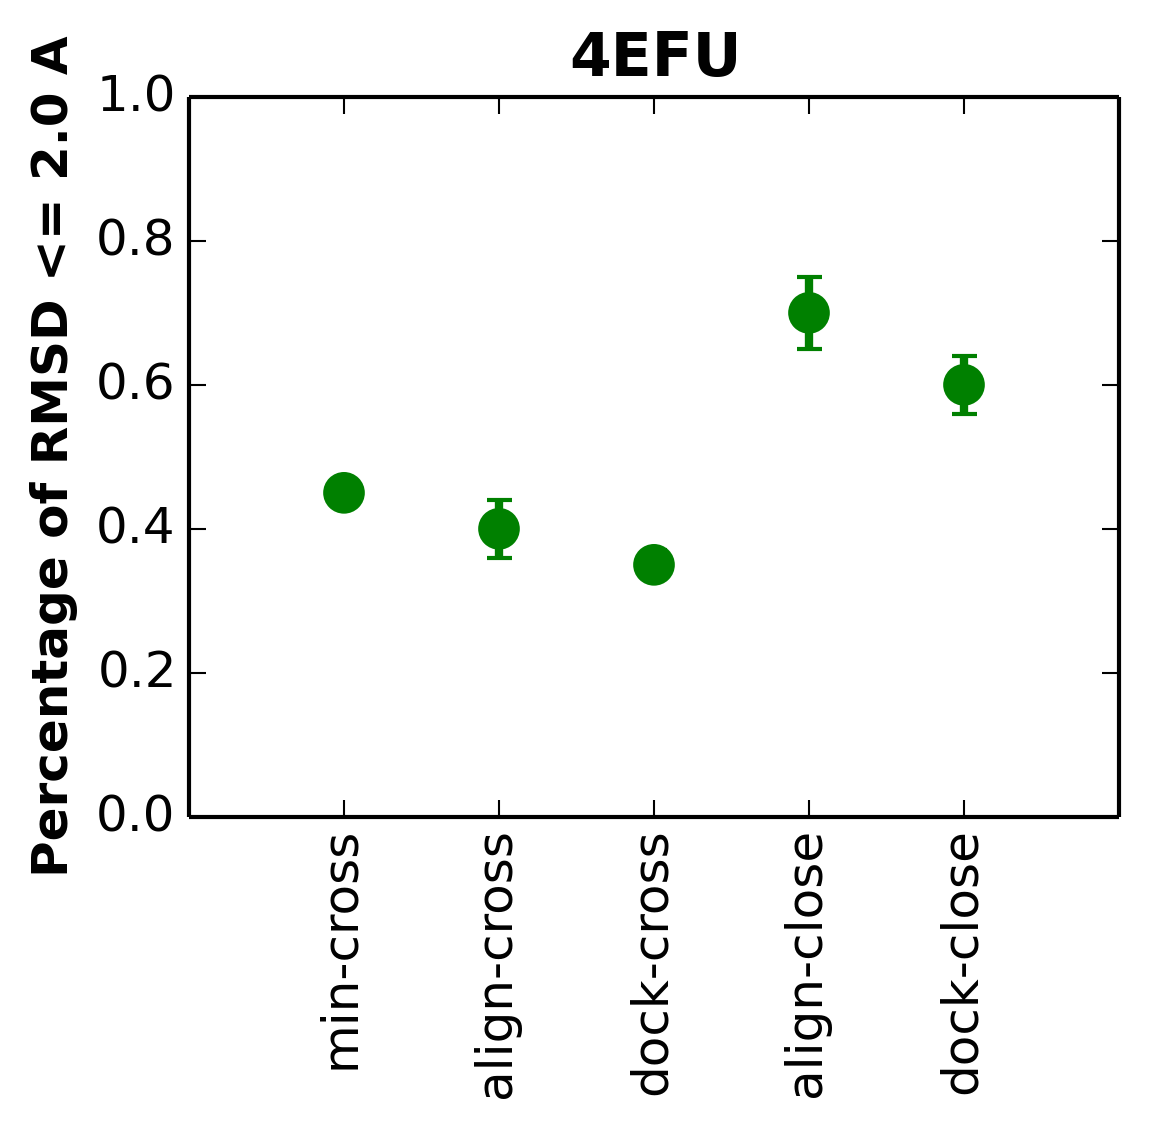
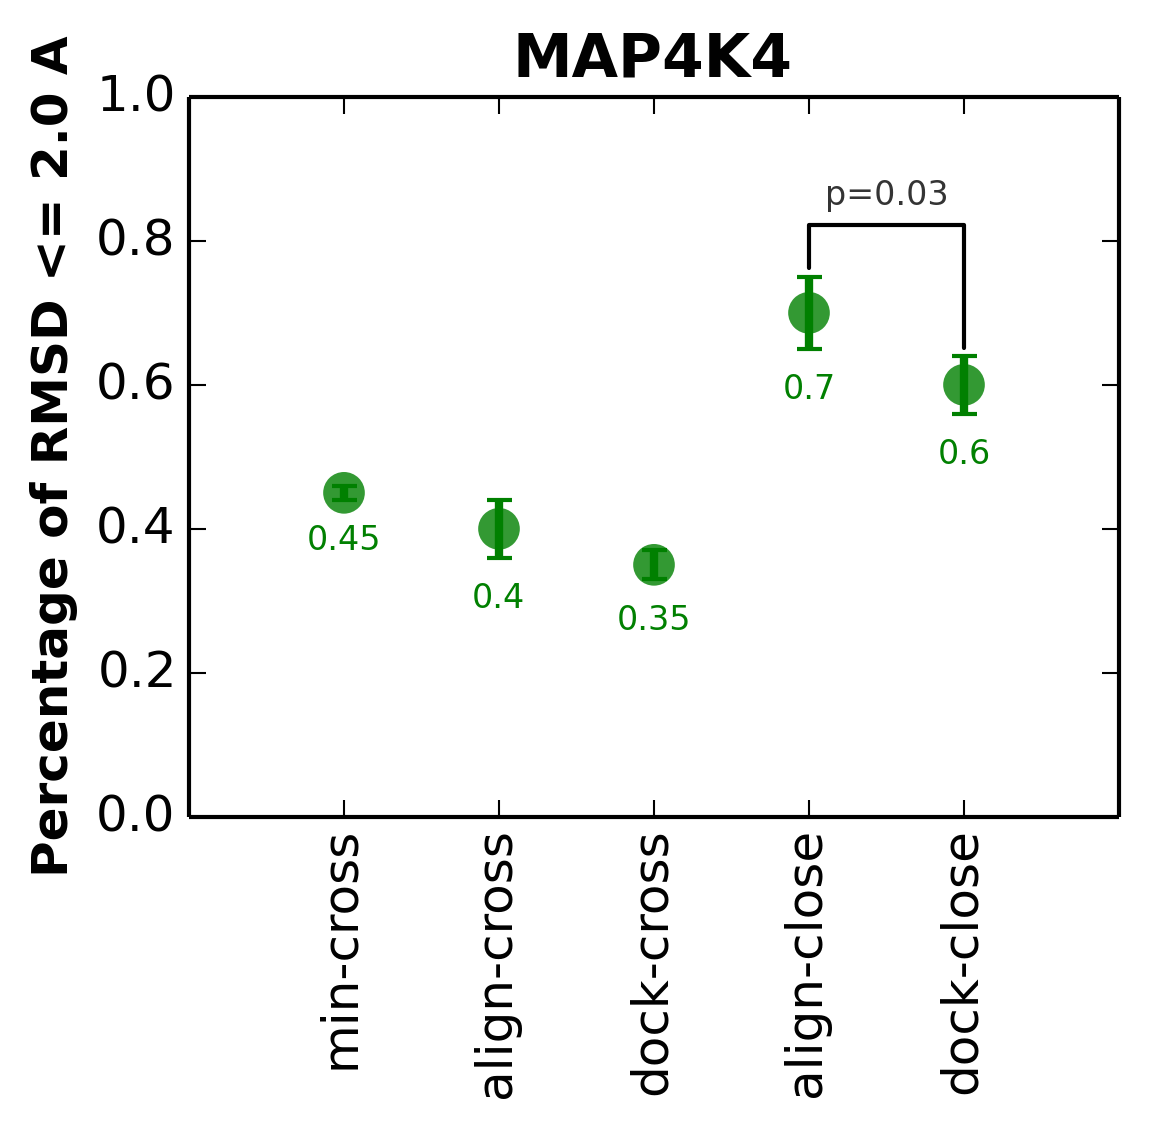
version 1.0.2

diff --git a/methods_plotter.py b/methods_plotter.py
@@ -11,27 +11,42 @@ def methods_plotter(infile,figsize=(4,3)):
         l = [x.split(',') for x in open(infile,'r')]
         rec_name = l[0][1][:-1]
         measure_name = lib[l[1][1][:-1]]
-        value = l[2:]
+        value = l[2:-1]
         x_value = [float(x[1]) for x in value]
         x_label = [x[0] for x in value]
         err_value = [float(x[2]) for x in value]
-        return rec_name, measure_name, x_value, x_label, err_value
-
-    rec_name, measure_name, x_value, x_label, err_value = _infile_parser(infile)
+        p = l[-1]
+        p_label = 'p=%s'%p[1]
+        p = [p_label, int(p[2]),int(p[3])]
+        return rec_name, measure_name, x_value, x_label, err_value, p
+    
+    # get plotting data from file
+    rec_name, measure_name, x_value, x_label, err_value, p = _infile_parser(infile)
 
     # set figure basic info
     fig = plt.figure(figsize=figsize,dpi=300)
     ax = fig.add_subplot(111, ylim=(0,1))
     x = [x for x in range(len(x_value))]
-    # add error bar
+    
+    # add error bar & plot the methods
     ax.errorbar(x, x_value,yerr=err_value, ecolor='g', capthick=2, fmt=None, capsize=3, elinewidth=2, markeredgewidth=1)
-    # plot the methods
-    ax.scatter(x, x_value,facecolors='g', s=100, linewidths=0)
-    # format the fig
+    ax.scatter(x, x_value,facecolors='g', s=100, linewidths=0, alpha=0.8)
+    
+    # set the axises & format the fig
+    plt.title(rec_name,fontweight='bold')
     ax.set_ylabel(measure_name,fontweight='bold')
     ax.set_xticks(x)
     ax.set_xticklabels(x_label)
     plt.xticks(rotation='vertical')
-    plt.title(rec_name,fontweight='bold')
+    
+    # mark the x value
+    for i in range(len(x_value)):
+        ax.annotate(x_value[i], xy=(i,x_value[i]-err_value[i]-0.07),ha='center',fontsize=8, color='g')
+    
+    # draw the p value label & connection line
+    ax.annotate(p[0], xy=(0.5*p[1]+0.5*p[2],0.1+max(x_value[p[1]]+err_value[p[1]],x_value[p[2]]+err_value[p[2]])), ha='center', fontsize=8, alpha=0.8)
+    ax.annotate('',xy=(p[1],err_value[p[1]]+x_value[p[1]]), xytext=(p[2],err_value[p[2]]+x_value[p[2]]), arrowprops=dict(arrowstyle='-',connectionstyle='bar,angle=180'),alpha=0.8)
+    
+    # save figure
     #plt.show()
     plt.savefig('apple.png',dpi=300,bbox_inches='tight')
